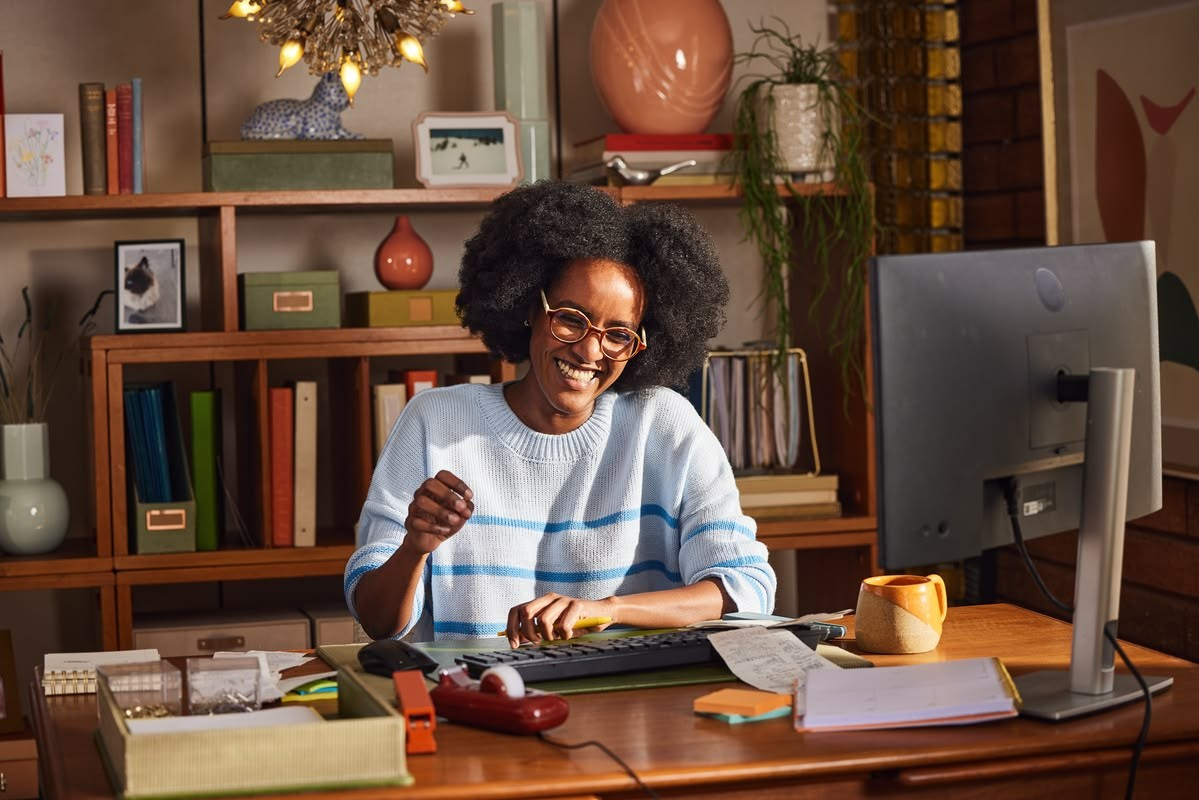
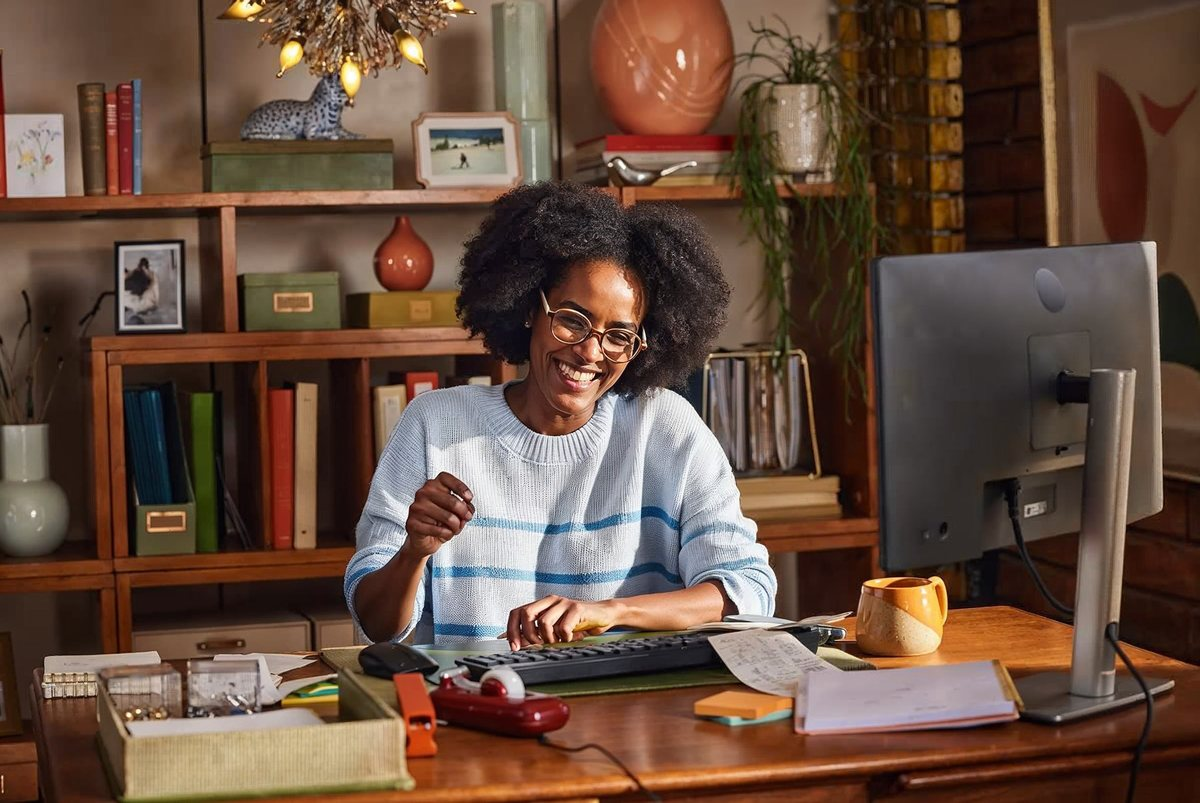
Zobo offices band and WIP bar, stronger contact and newsletter type, Refreeg film thumb, 2K blog images
Claude-Session: https://claude.ai/code/session_01TzKr7xup1nPHR983ZgPjWk

diff --git a/src/App.css b/src/App.css
@@ -4716,7 +4716,7 @@
   width: auto;
 }
 
-/* Work-in-progress bar: Dusk purple, slides down from the top on scroll. */
+/* Work-in-progress bar: Zobo pink, slides down from the top on scroll. */
 .kora-wip-bar {
   position: fixed;
   top: 0;
@@ -4724,7 +4724,7 @@
   right: 0;
   z-index: 300;
   padding: 10px 24px;
-  background: var(--koraa-dusk);
+  background: var(--koraa-zobo);
   color: var(--koraa-ink);
   font-size: 14px;
   font-weight: 500;
@@ -4784,4 +4784,168 @@
   width: 100%;
   height: 100%;
   object-fit: cover;
+}
+
+/* ------------------------------------------------------------------------
+   Nov 20 pass: Zobo offices band, contact + newsletter type, film thumbs.
+   ------------------------------------------------------------------------ */
+
+/* Offices band on Zobo pink. White fails contrast on Zobo, so it is Ink. */
+.kora-offices {
+  background: var(--koraa-zobo);
+  color: rgba(10, 10, 10, 0.72);
+}
+
+.kora-office-code,
+.kora-office-time {
+  color: var(--koraa-ink);
+}
+
+/* Contact: one big statement, a readable line under it, the two actions,
+   and the inbox set large on a rule at the bottom. */
+.kora-rx-contact h2 {
+  max-width: 11ch;
+  font-size: clamp(52px, 7vw, 112px);
+  line-height: 0.92;
+  letter-spacing: -0.045em;
+  font-weight: 600;
+  text-wrap: balance;
+}
+
+.kora-rx-contact-ask p {
+  margin: 32px 0 0;
+  max-width: 32ch;
+  font-size: clamp(18px, 1.5vw, 22px);
+  line-height: 1.45;
+  color: var(--text);
+}
+
+.kora-rx-contact-actions {
+  display: flex;
+  flex-wrap: wrap;
+  gap: 8px;
+  margin-top: 36px;
+}
+
+.kora-rx-contact-mail {
+  display: flex;
+  align-items: center;
+  gap: 14px;
+  padding-top: 28px;
+  border-top: 1px solid var(--border);
+}
+
+.kora-rx-contact-mail a {
+  font-size: clamp(24px, 2.6vw, 40px);
+  font-weight: 500;
+  letter-spacing: -0.03em;
+  line-height: 1;
+  color: var(--text-h);
+  text-decoration: none;
+}
+
+.kora-rx-contact-mail a:hover {
+  text-decoration: underline;
+  text-underline-offset: 6px;
+  text-decoration-thickness: 2px;
+}
+
+/* Newsletter: heading as loud as the contact, and a field you can't miss. */
+.kora-rx-newsletter {
+  display: grid;
+  grid-template-columns: minmax(0, 1fr) minmax(0, 1fr);
+  align-items: end;
+  gap: 32px var(--kora-gutter);
+}
+
+.kora-rx-newsletter h2 {
+  grid-row: span 2;
+  margin: 0;
+  max-width: 9ch;
+  font-size: clamp(52px, 7vw, 112px);
+  line-height: 0.92;
+  letter-spacing: -0.045em;
+  font-weight: 700;
+}
+
+.kora-rx-newsletter-form {
+  flex-wrap: nowrap;
+  gap: 8px;
+  margin: 0;
+}
+
+.kora-rx-newsletter-form input {
+  flex: 1;
+  width: auto;
+  min-width: 0;
+  height: 60px;
+  padding: 0 26px;
+  border: 1.5px solid var(--text-h);
+  background: rgba(255, 255, 255, 0.06);
+  font-size: 18px;
+}
+
+.kora-rx-newsletter-form input::placeholder {
+  color: var(--text);
+  opacity: 1;
+}
+
+.kora-rx-newsletter-form input:focus-visible {
+  border-color: var(--koraa-zobo);
+  background: rgba(255, 142, 198, 0.08);
+}
+
+.kora-rx-newsletter-form .kora-pill {
+  height: 60px;
+  padding: 0 30px;
+  font-size: 18px;
+}
+
+.kora-rx-newsletter small {
+  font-size: 14px;
+}
+
+@media (max-width: 760px) {
+  .kora-rx-newsletter {
+    grid-template-columns: 1fr;
+  }
+
+  .kora-rx-newsletter h2 {
+    grid-row: auto;
+  }
+}
+
+/* Image first, then the film fades in over it. */
+.kora-film-after {
+  position: absolute;
+  inset: 0;
+}
+
+.kora-film-after img,
+.kora-film-after video {
+  display: block;
+  width: 100%;
+  height: 100%;
+  object-fit: cover;
+}
+
+.kora-film-after video {
+  position: absolute;
+  inset: 0;
+  opacity: 0;
+  transition: opacity 0.9s ease;
+}
+
+.kora-film-after.is-playing video {
+  opacity: 1;
+}
+
+.kora-rx-contact-actions .kora-pill {
+  box-sizing: border-box;
+  justify-content: center;
+  height: 52px;
+  padding: 0 26px;
+  display: inline-flex;
+  align-items: center;
+  font-size: 17px;
 }

diff --git a/src/components/Sections.tsx b/src/components/Sections.tsx
@@ -1,8 +1,8 @@
-import { useState } from 'react'
+import { useEffect, useRef, useState } from 'react'
 import type { PointerEvent, ReactNode } from 'react'
 import { Link } from 'react-router-dom'
 import { srcSetFor } from '../data'
-import type { Post, Project } from '../data'
+import type { Post, Project, ProjectImage } from '../data'
 import { caseLinkFor, CASE_STUDY_DUE } from '../caseStudies'
 import { CheckIcon, CopyIcon } from './icons'
 import { useContact } from '../contact/useContact'
@@ -78,7 +78,14 @@ export function ClientRow({ project, index }: { project: Project; index?: number
           onPointerMove={followCursor}
         >
           <div className="kora-flare">
-            {project.film ? (
+            {project.film?.afterImageMs ? (
+              <FilmAfterImage
+                src={project.film.src}
+                delayMs={project.film.afterImageMs}
+                still={lead}
+                alt={project.brand}
+              />
+            ) : project.film ? (
               <video
                 src={project.film.src}
                 poster={project.film.poster.src}
@@ -107,6 +114,39 @@ export function ClientRow({ project, index }: { project: Project; index?: number
         </div>
       </RowLink>
     </li>
+  )
+}
+
+/** The still shows first; once the row is in view the film fades in over it
+ *  and loops. Reduced motion keeps the still. */
+function FilmAfterImage({ src, delayMs, still, alt }: { src: string; delayMs: number; still: ProjectImage; alt: string }) {
+  const box = useRef<HTMLDivElement>(null)
+  const video = useRef<HTMLVideoElement>(null)
+  const [playing, setPlaying] = useState(false)
+
+  useEffect(() => {
+    const el = box.current
+    if (!el || window.matchMedia('(prefers-reduced-motion: reduce)').matches) return
+    let timer = 0
+    const io = new IntersectionObserver(([entry]) => {
+      if (entry.isIntersecting && !timer) {
+        timer = window.setTimeout(() => {
+          const v = video.current
+          if (!v) return
+          v.play().then(() => setPlaying(true)).catch(() => {})
+        }, delayMs)
+        io.disconnect()
+      }
+    }, { threshold: 0.4 })
+    io.observe(el)
+    return () => { io.disconnect(); window.clearTimeout(timer) }
+  }, [delayMs])
+
+  return (
+    <div ref={box} className={`kora-film-after${playing ? ' is-playing' : ''}`}>
+      <img src={still.src} srcSet={srcSetFor(still)} sizes="(max-width: 760px) 100vw, 66vw" alt={alt} loading="lazy" draggable={false} />
+      <video ref={video} src={src} muted loop playsInline preload="none" aria-hidden="true" disablePictureInPicture />
+    </div>
   )
 }
 

diff --git a/src/data.ts b/src/data.ts
@@ -167,6 +167,7 @@ import framefest013000 from './assets/framefest-01-3000.jpg'
 import framefest021200 from './assets/framefest-02-1200.jpg'
 import framefest022000 from './assets/framefest-02-2000.jpg'
 import framefest023000 from './assets/framefest-02-3000.jpg'
+import refreegFilm from './assets/refreeg/refreeg-film.mp4'
 import refreeg011200 from './assets/refreeg-01-1200.jpg'
 import refreeg012000 from './assets/refreeg-01-2000.jpg'
 import refreeg013000 from './assets/refreeg-01-3000.jpg'
@@ -243,6 +244,8 @@ export interface ProjectFilm {
   /** The film's own running length, so the reel holds it to the last frame
       instead of cutting away mid-shot. */
   durationMs: number
+  /** Show the still first and fade the film in over it after this long. */
+  afterImageMs?: number
 }
 
 const IPAYBTC_FILM: ProjectFilm = {
@@ -289,6 +292,7 @@ export const PROJECTS: Project[] = [
     year: '2025',
     headline: 'Refreeg — Giving, Made Direct',
     stat: '—',
+    film: { src: refreegFilm, poster: FRAMES.refreeg01, durationMs: 14770, afterImageMs: 1600 },
     images: [FRAMES.refreeg01, FRAMES.refreeg02, FRAMES.refreeg03],
   },
   {

diff --git a/src/pages/Home.tsx b/src/pages/Home.tsx
@@ -24,7 +24,7 @@ import { ClientRow, Contact, NewsCard } from '../components/Sections'
    The offices band and the footer come from Layout. */
 
 /** The clients Home features, in order. The Work page still shows them all. */
-const HOME_PROJECTS = ['Ipaybtc', '3Projects', 'Refreeg', 'Tagmi']
+const HOME_PROJECTS = ['Ipaybtc', 'Refreeg', '3Projects', 'Tagmi']
 
 /** The hero plates: the heads-together shot, then the Tagmi 3D scene. */
 const HERO_STILLS: Array<[string, number]> = [
